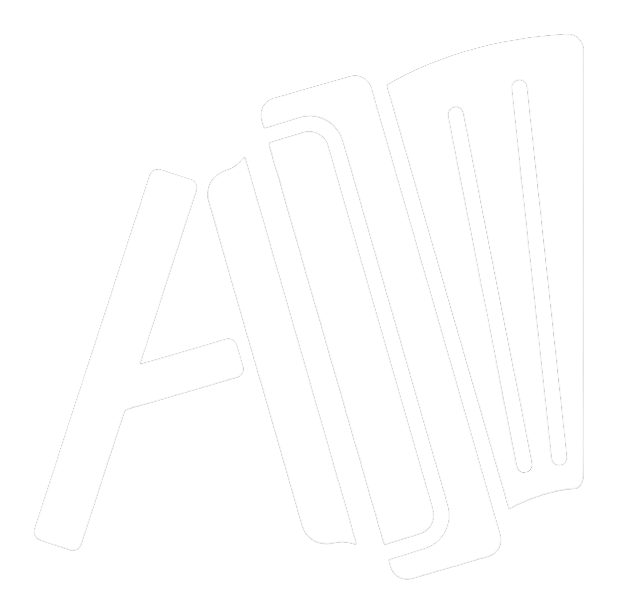
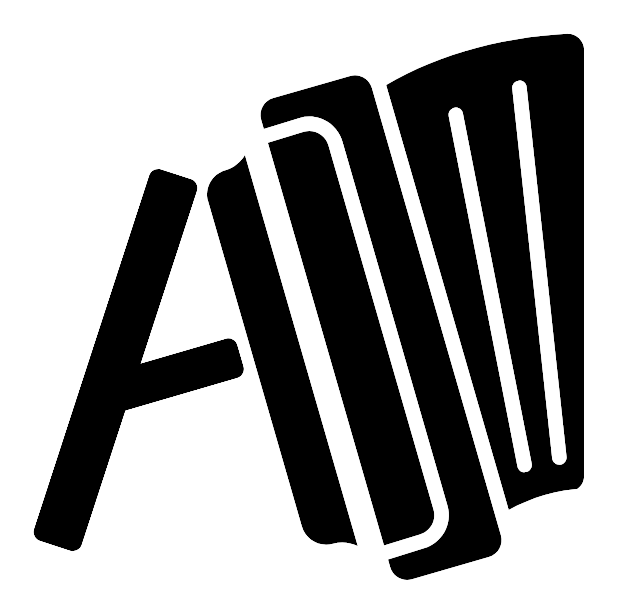
fix(brand): grid faithfulness — gradient groups, azure reply, solid mark
Reworked the grid per the brand guidelines PDF (read the actual color +
touchpoints pages):

- Folded GROUP tiles now render the brand spectrum gradient, made smoky over
  Ink ("the colors fold together into one continuous spectrum") — replacing
  the nasty flat charcoal. Painted on canvas (tileDraw) + DOM .group-tile;
  groups are sparse so per-tile gradients are perf-safe.
- Reply/text (--k-text) → brand spectrum azure #1AA6E8 (a real gradient stop)
  instead of mid-gray Smoke, which read as a loud flat wall. Distinct from the
  4 kinds, in-brand.
- Folded tiles recede a touch darker toward Ink so aged sessions trend to the
  brand's dark-field-with-sparse-color look.
- Logo: use the SOLID symbol master (symbol-black.png) inverted to white for
  the dark chrome (pleat cut-outs show the bg) — the shipped white PNG is a
  thin outline that read poorly at chrome sizes.

svelte-check 0/0, vitest 563/563.

diff --git a/app/src/lib/ui/map/tileDraw.ts b/app/src/lib/ui/map/tileDraw.ts
@@ -83,18 +83,30 @@ export function readPalette(): Palette {
   return {
     kindColors: {
       user: v("--k-user") || "#044EFF",
-      text: v("--k-text") || "#9A9A9A",
+      text: v("--k-text") || "#1AA6E8",
       thinking: v("--k-thinking") || "#B480DF",
       tool_call: v("--k-tool_call") || "#21D4C1",
       tool_result: v("--k-tool_result") || "#E19C7D",
     },
     accent: v("--accent") || "#E8E8E8",
     accentDim: v("--accent-dim") || "#2d4a7a",
-    group: v("--group") || "#2C2C2C",
-    groupEdge: v("--group-edge") || "#4A4A4A",
-    groupAccent: v("--group-accent") || "#9A9A9A",
+    group: v("--group") || "#14131C",
+    groupEdge: v("--group-edge") || "#0A0A0A",
+    groupAccent: v("--group-accent") || "#E8E8E8",
   };
 }
+
+// The brand "Spectrum" gradient stops (brand.md). A folded GROUP renders this as a
+// smoky field over Ink — "the colors of the context window fold together into one
+// continuous spectrum." Sparse (groups are few), so per-tile gradients are fine here.
+const SPECTRUM_STOPS: [number, string][] = [
+  [0.0, "#21D4C1"],
+  [0.3, "#1AA6E8"],
+  [0.48, "#044EFF"],
+  [0.64, "#7D6EE6"],
+  [0.78, "#B480DF"],
+  [1.0, "#E19C7D"],
+];
 
 // ---------------------------------------------------------------------------
 // Color utilities
@@ -472,21 +484,33 @@ export function drawTile(
   // Folded: desaturate — but restore full saturation on hover (matches old CSS
   // `.cell.folded:hover { filter: saturate(1) brightness(1.1) }`).
   let baseColor = rawColor;
-  if (spec.folded && !opts.hovered) {
+  if (spec.folded && !opts.hovered && !isGroup) {
     baseColor = desaturateCached(rawColor);
   }
 
   // ---- base rounded rect fill ----
   ctx.save();
 
-  if (spec.folded) {
-    // folded: recessed but still legibly COLORED (live=1.0, so this still reads
-    // as dimmer/recessed); full brightness on hover.
-    ctx.globalAlpha = opts.hovered ? 0.85 : 0.46;
+  if (spec.folded && !isGroup) {
+    // folded: recessed toward Ink so aged sessions trend dark (brand grid:
+    // color is the exception). Full brightness on hover.
+    ctx.globalAlpha = opts.hovered ? 0.85 : 0.4;
   }
 
-  ctx.fillStyle = baseColor;
-  roundRectFill(ctx, x, y, w, h, isGroup ? 4 : r);
+  if (isGroup) {
+    // Folded group = the brand spectrum gradient, made smoky over Ink. A
+    // horizontal spectrum sweep, then a dark wash so white pips/controls read
+    // and it sits as a recessed "folded" field rather than a bright rainbow.
+    const grad = ctx.createLinearGradient(x, y, x + w, y);
+    for (const [off, col] of SPECTRUM_STOPS) grad.addColorStop(off, col);
+    ctx.fillStyle = grad;
+    roundRectFill(ctx, x, y, w, h, 4);
+    ctx.fillStyle = "rgba(10,10,10,0.42)";
+    roundRectFill(ctx, x, y, w, h, 4);
+  } else {
+    ctx.fillStyle = baseColor;
+    roundRectFill(ctx, x, y, w, h, r);
+  }
 
   // ---- folded hatch — blit the baked sprite (no per-tile clip()/loop) ----
   if (spec.folded) {

diff --git a/app/src/app.css b/app/src/app.css
@@ -30,21 +30,24 @@
 	   These VALUES intentionally override the former "DO NOT CHANGE" contract: the spectrum
 	   is now the canonical block-kind palette. Names are still load-bearing — do not rename. */
 	--k-user: #044EFF;
-	--k-text: #9A9A9A;         /* Smoke — text is monochrome by brand rule */
+	--k-text: #1AA6E8;         /* brand spectrum azure — the assistant-reply spine
+	                              (a real gradient stop, distinct from the 4 kinds; not gray) */
 	--k-thinking: #B480DF;
 	--k-tool_call: #21D4C1;
 	--k-tool_result: #E19C7D;
 	/* synthesized-summary tile (sliver fold mode) — dark neutral recessed tone; distinct
-	   from --group (#2C2C2C) so the summary never collides with a collapsed group tile */
+	   from a folded group's spectrum gradient so the summary never collides */
 	--k-summary: #2A2A2A;
 
-	/* multiblock folds (groups) — MONOCHROME RECESSED (reads as folded, not live) */
-	--group: #2C2C2C;               /* recessed charcoal */
-	--group-edge: #4A4A4A;          /* Slate */
-	--group-accent: #9A9A9A;        /* Smoke — group button / highlight */
-	--group-band: rgba(154, 154, 154, 0.07);
-	--group-ink: #0A0A0A;           /* Ink text on the light smoke group button */
-	--group-accent-light: #E8E8E8;  /* hover tint for group button */
+	/* multiblock folds (groups) — the brand SPECTRUM GRADIENT made smoky over Ink
+	   ("the colors fold together into one continuous spectrum"). The canvas paints the
+	   gradient (tileDraw); DOM group surfaces use --gradient-spectrum darkened. */
+	--group: #14131C;               /* smoky fallback base (canvas uses the gradient) */
+	--group-edge: #0A0A0A;          /* crisp Ink rim around the gradient tile */
+	--group-accent: #E8E8E8;        /* Cloud — group selection rings / band edge / controls */
+	--group-band: rgba(255, 255, 255, 0.05);
+	--group-ink: #0A0A0A;           /* Ink text on the light group button */
+	--group-accent-light: #FFFFFF;  /* hover tint for group button */
 
 	/* ===== Radii (brand) ===== */
 	--radius-xs: 4px;          /* inline code chips / tiny markers (floor) */

diff --git a/app/src/lib/ui/Logo.svelte b/app/src/lib/ui/Logo.svelte
@@ -1,7 +1,10 @@
 <script lang="ts">
 	// The Accordion brand symbol (bellows-A). The master art is raster PNG
 	// (brand.md: "not vector"), so we render the real asset rather than a traced SVG.
-	// White variant — for the dark UI chrome.
+	// We use the SOLID black master (symbol-black.png) and invert it to white for the
+	// dark chrome — the pleat cut-outs let the dark background show through as the
+	// bellows lines (matching the PDF's solid mark). The shipped symbol-white.png is a
+	// thinner outline treatment that reads poorly at small chrome sizes.
 	let {
 		size = 20,
 		class: klass = "",
@@ -16,5 +19,5 @@
 	height={size}
 	class={klass}
 	draggable="false"
-	style="display:block;width:{size}px;height:{size}px;object-fit:contain;"
+	style="display:block;width:{size}px;height:{size}px;object-fit:contain;filter:invert(1);"
 />

diff --git a/app/src/lib/ui/map/ContextMap.svelte b/app/src/lib/ui/map/ContextMap.svelte
@@ -1631,8 +1631,11 @@
 	/* The collapsed group tile in tile grids is now drawn on canvas (no DOM .group-tile
 	   needed there). Only .group-tile-open (the dull parent inside the band) remains DOM. */
 	.group-tile {
-		/* Kept for .group-tile-open which also uses this base. */
-		background: var(--group);
+		/* Kept for .group-tile-open which also uses this base. Folded group = the brand
+		   spectrum gradient, darkened to a smoky field over Ink (matches the canvas tile). */
+		background:
+			linear-gradient(rgba(10, 10, 10, 0.42), rgba(10, 10, 10, 0.42)),
+			var(--gradient-spectrum);
 		box-shadow:
 			inset 0 0 0 1px var(--group-edge),
 			inset 2px 2px 0 -1px color-mix(in srgb, #fff 16%, transparent),